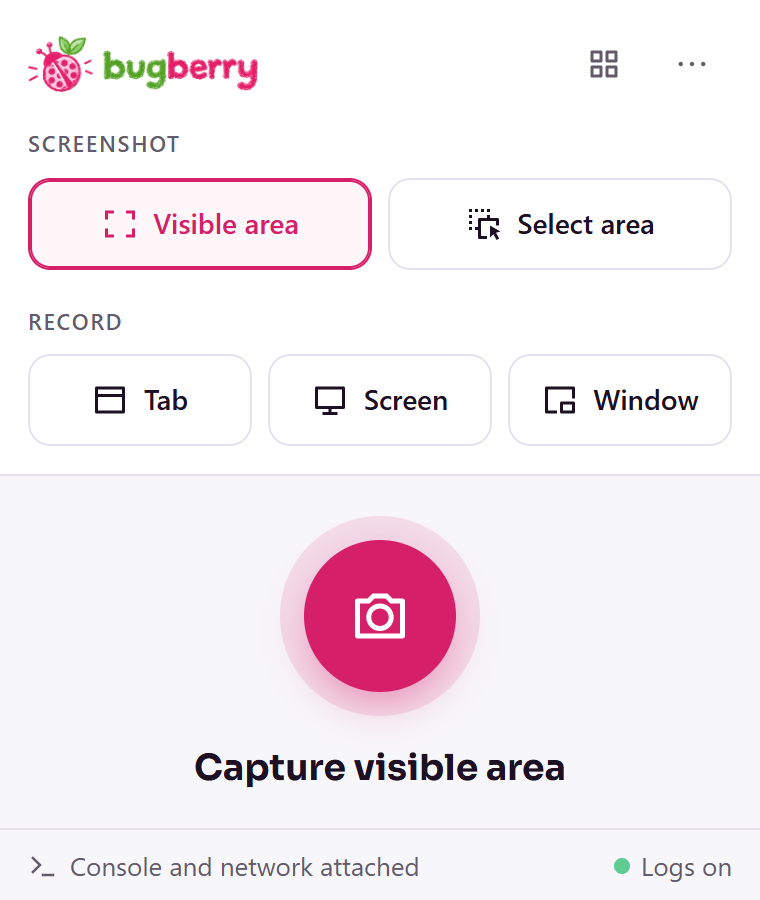
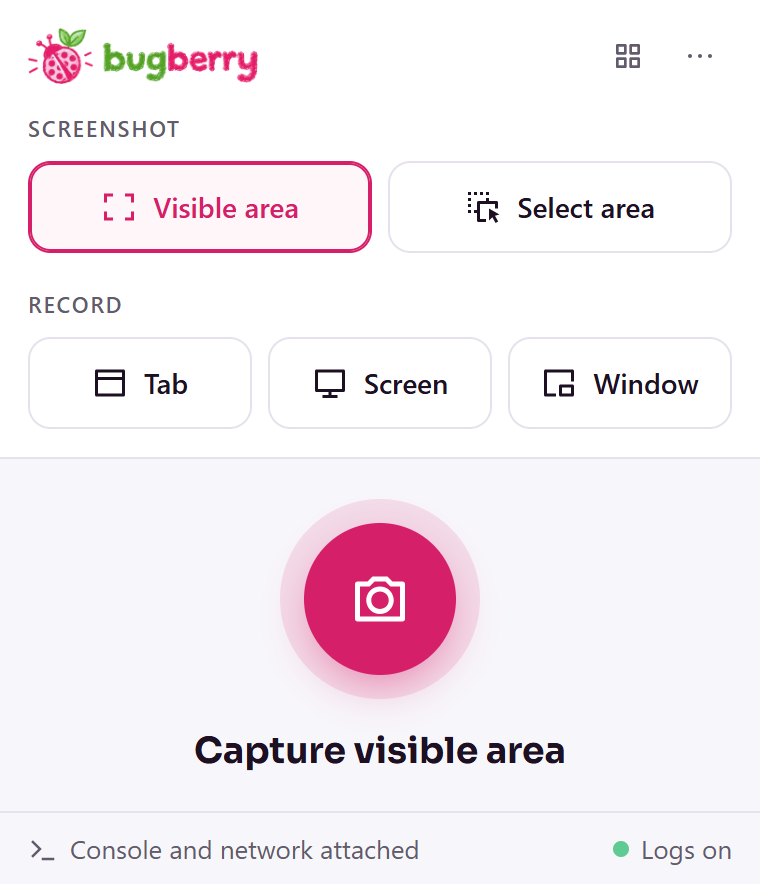
feat(extension): guide pictures for screenshots

diff --git a/apps/extension/docs-shots/screenshots.shots.ts b/apps/extension/docs-shots/screenshots.shots.ts
@@ -1,5 +1,5 @@
-import { test } from "@playwright/test"
-import { type Harness, launch, openPopup, shot } from "./harness"
+import { expect, test } from "@playwright/test"
+import { type Harness, launch, openPopup, reviewFrame, send, shopTabId, shot } from "./harness"
 
 let h: Harness
 
@@ -15,4 +15,53 @@ test("popup: screenshot", async () => {
   const popup = await openPopup(h, { captureKind: "screenshot", screenshotMode: "visible" })
   await shot(popup, "screenshots/popup.png")
   await popup.close()
+})
+
+test("select area", async () => {
+  const popup = await openPopup(h)
+  const tabId = await shopTabId(h, popup)
+  // Answers only once an area is picked: not awaited.
+  void send(popup, { type: "bugberry:screenshot", tabId, mode: "area" }).catch(() => {})
+  await h.shop.bringToFront()
+  await h.shop.locator("[data-bugberry-area]").waitFor({ state: "attached" })
+  await h.shop.mouse.move(380, 220)
+  await h.shop.mouse.down()
+  await h.shop.mouse.move(900, 520, { steps: 12 })
+  await shot(h.shop, "screenshots/select-area.png")
+  await h.shop.keyboard.press("Escape")
+  await h.shop.mouse.up()
+  await popup.close()
+})
+
+test("review with a mark", async () => {
+  await h.shop.bringToFront()
+  await h.shop.getByRole("button", { name: "Pay $48.00" }).click()
+  await h.shop.waitForTimeout(500)
+  // Where the Pay button sits, as a share of the viewport: the same place on the screenshot.
+  const pay = await h.shop.getByRole("button", { name: "Pay $48.00" }).boundingBox()
+  const viewport = await h.shop.evaluate(() => ({ width: window.innerWidth, height: window.innerHeight }))
+  if (!pay) throw new Error("No Pay button")
+  // The visible area is of the tab in front: the shop, not this popup page.
+  const popup = await openPopup(h)
+  const tabId = await shopTabId(h, popup)
+  await h.shop.bringToFront()
+  const answer = await send(popup, { type: "bugberry:screenshot", tabId, mode: "visible" })
+  expect(answer).toMatchObject({ ok: true })
+  await popup.close()
+  const review = await reviewFrame(h)
+  await review.getByRole("radio", { name: "Box" }).click()
+  const canvas = await review.locator("canvas").first().boundingBox()
+  if (!canvas) throw new Error("No annotation canvas")
+  const at = (x: number, y: number) => ({ x: canvas.x + (x / viewport.width) * canvas.width, y: canvas.y + (y / viewport.height) * canvas.height })
+  const from = at(pay.x - 14, pay.y - 14)
+  const to = at(pay.x + pay.width + 14, pay.y + pay.height + 14)
+  await h.shop.mouse.move(from.x, from.y)
+  await h.shop.mouse.down()
+  await h.shop.mouse.move(to.x, to.y, { steps: 8 })
+  await h.shop.mouse.up()
+  await h.shop.mouse.move(viewport.width - 4, viewport.height - 4)
+  await shot(h.shop, "screenshots/review-markup.png")
+  // Closed as a draft, so the next pictures start clean.
+  await review.getByRole("button", { name: "Close" }).click()
+  await review.getByRole("button", { name: "Keep" }).click()
 })

diff --git a/apps/extension/docs-shots/harness.ts b/apps/extension/docs-shots/harness.ts
@@ -1,7 +1,7 @@
 import { mkdirSync, readFileSync } from "node:fs"
 import { dirname } from "node:path"
 import { fileURLToPath } from "node:url"
-import { type BrowserContext, chromium, type Locator, type Page, type Worker } from "@playwright/test"
+import { type BrowserContext, chromium, expect, type Frame, type Locator, type Page, type Worker } from "@playwright/test"
 import type { CapturePrefs } from "../lib/capture-prefs"
 
 declare const chrome: {
@@ -37,11 +37,17 @@ export async function launch(): Promise<Harness> {
   const state = JSON.parse(readFileSync(statePath, "utf8")) as E2EState
   const context = await chromium.launchPersistentContext("", {
     channel: "chromium",
-    viewport: { width: 1280, height: 800 },
-    deviceScaleFactor: 2,
+    // The real window's size and scale, not an emulated viewport: the extension's own capture
+    // (captureVisibleTab, tab recording) sees the window, and would cut an emulated page short.
+    viewport: null,
     colorScheme: "light",
     reducedMotion: "reduce",
-    args: [`--disable-extensions-except=${extensionPath}`, `--load-extension=${extensionPath}`],
+    args: [
+      `--disable-extensions-except=${extensionPath}`,
+      `--load-extension=${extensionPath}`,
+      "--window-size=1280,900",
+      "--force-device-scale-factor=2",
+    ],
   })
   const worker = context.serviceWorkers()[0] ?? (await context.waitForEvent("serviceworker"))
   const extensionId = new URL(worker.url()).host
@@ -64,8 +70,8 @@ export async function shopTabId(h: Harness, from: Page): Promise<number> {
  * reporter's tab, so its "active tab" lookup is pointed at the shop: the popup itself is the real one.
  */
 export async function openPopup(h: Harness, prefs: Partial<CapturePrefs> = {}): Promise<Page> {
+  // Not resized: emulating a size drops the window's 2× scale. The popup's body is 380 px wide by itself.
   const page = await h.context.newPage()
-  await page.setViewportSize({ width: 380, height: 600 })
   const shopUrl = h.shop.url()
   await page.addInitScript((url) => {
     const query = chrome.tabs.query.bind(chrome.tabs)
@@ -99,6 +105,16 @@ export async function shot(
   } else {
     await target.screenshot(common)
   }
+}
+
+/** The review over the shop, in an extension iframe inside a closed shadow root: found by its URL. */
+export async function reviewFrame(h: Harness): Promise<Frame> {
+  const find = () => h.shop.frames().find((frame) => frame.url().includes("/review.html"))
+  await expect.poll(() => find() !== undefined, { timeout: 15_000 }).toBe(true)
+  const review = find()!
+  await review.getByRole("dialog").first().waitFor()
+  await h.shop.waitForTimeout(800)
+  return review
 }
 
 /** `chrome.runtime.sendMessage` from an extension page, as the popup would. Not awaited by the page. */
